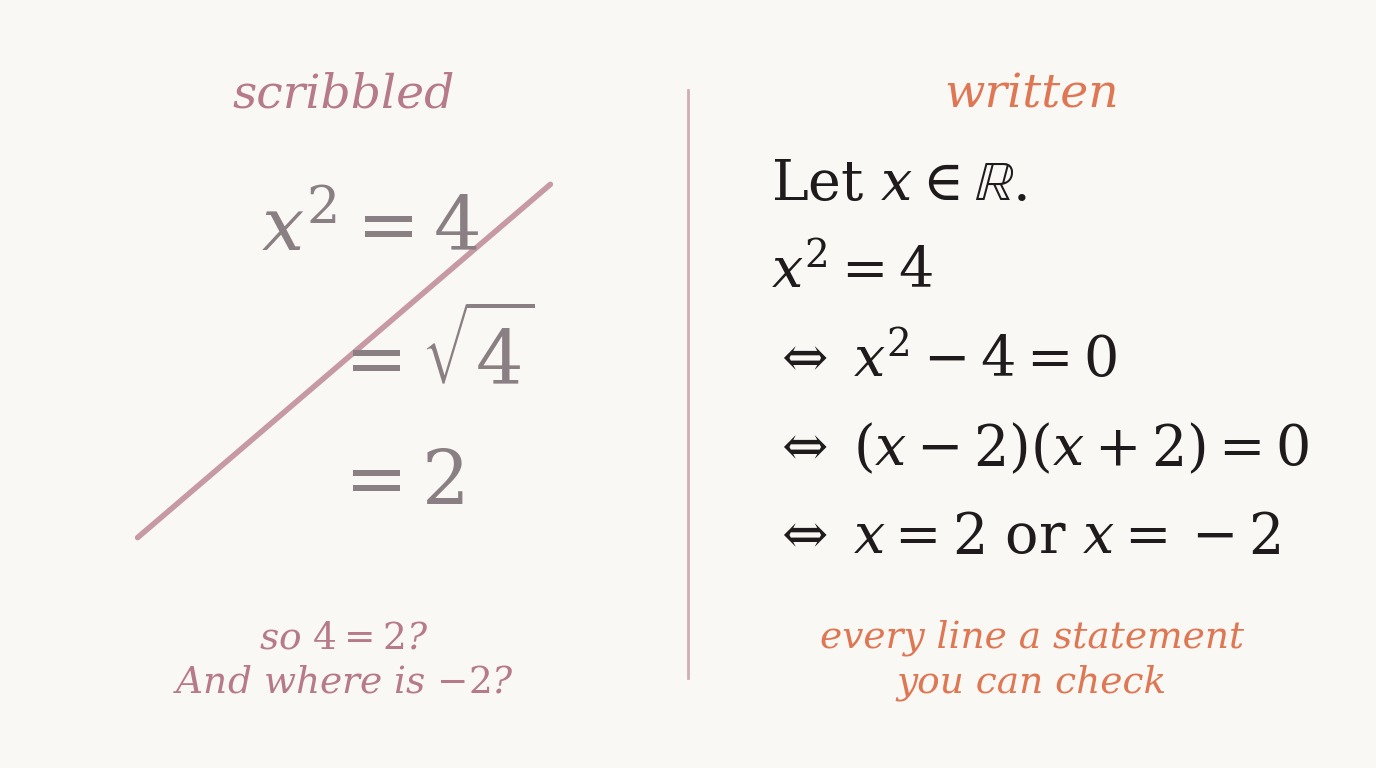
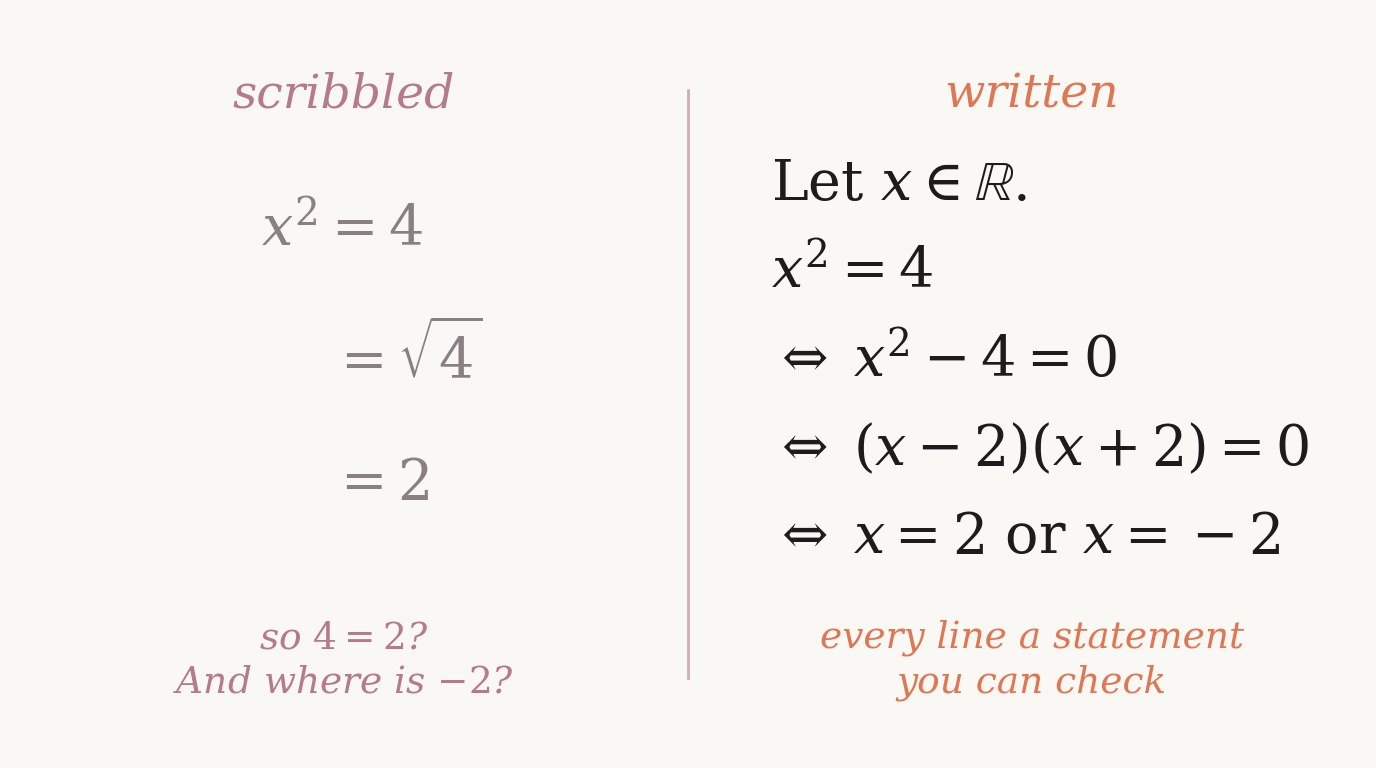
math-writing card: equal type size, no strike-through

diff --git a/math-writing/math_writing_card.py b/math-writing/math_writing_card.py
@@ -25,11 +25,10 @@ ax.plot([W / 2, W / 2], [90, H - 90], color=ROSE, lw=2, alpha=0.6)
 ax.text(W * 0.25, H - 95, 'scribbled', ha='center', va='center', fontsize=34, style='italic', family='serif', color=ROSE)
 ax.text(W * 0.75, H - 95, 'written', ha='center', va='center', fontsize=34, style='italic', family='serif', color=TERRA)
 
-# left: the chain of equals signs, line by line, struck through
+# left: the chain of equals signs, line by line
 left = [(r'$x^2 = 4$', 0.19), (r'$= \sqrt{4}$', 0.24), (r'$= 2$', 0.24)]
 for i, (t, xf) in enumerate(left):
-    ax.text(W * xf, H * 0.70 - i * 0.165 * H, t, ha='left', va='center', fontsize=54, color=MUTED)
-ax.plot([W * 0.10, W * 0.40], [H * 0.30, H * 0.76], color=ROSE, lw=4, alpha=0.75, solid_capstyle='round')
+    ax.text(W * xf, H * 0.70 - i * 0.165 * H, t, ha='left', va='center', fontsize=40, color=MUTED, family='serif')
 ax.text(W * 0.25, H * 0.14, 'so $4 = 2$?\nAnd where is $-2$?', ha='center', va='center', fontsize=27,
         linespacing=1.3, style='italic', family='serif', color=ROSE)
 
